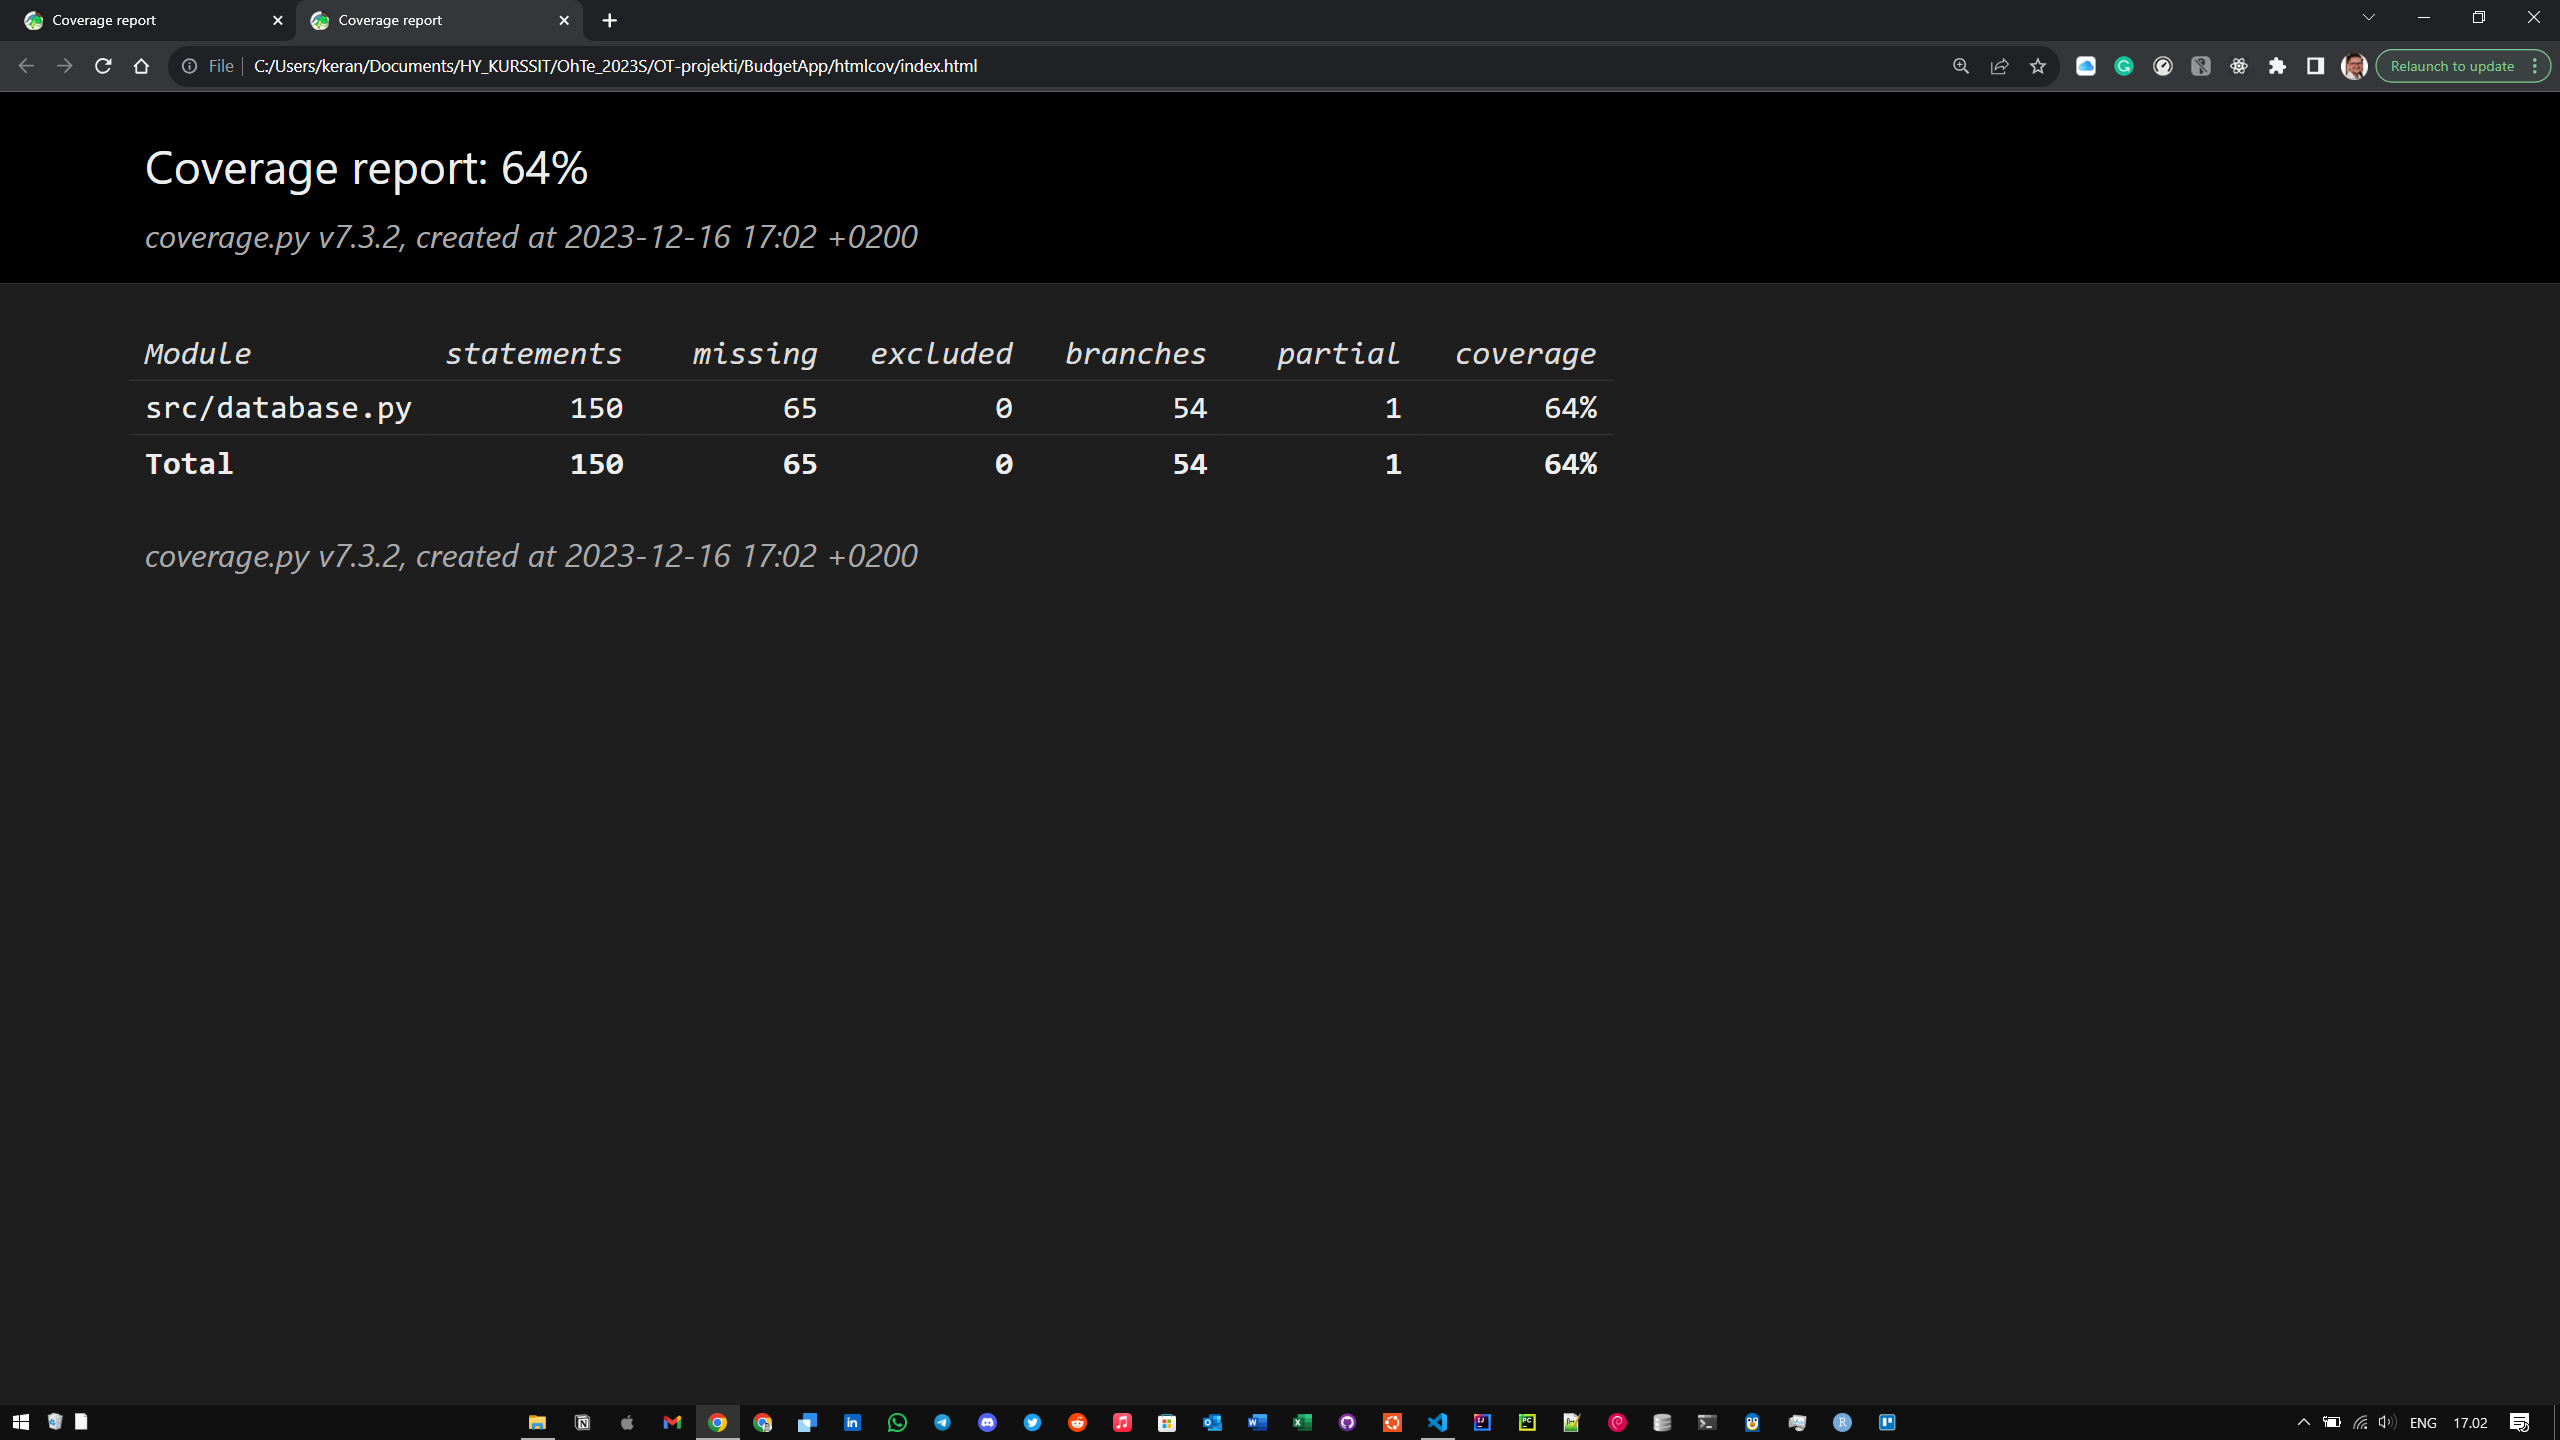
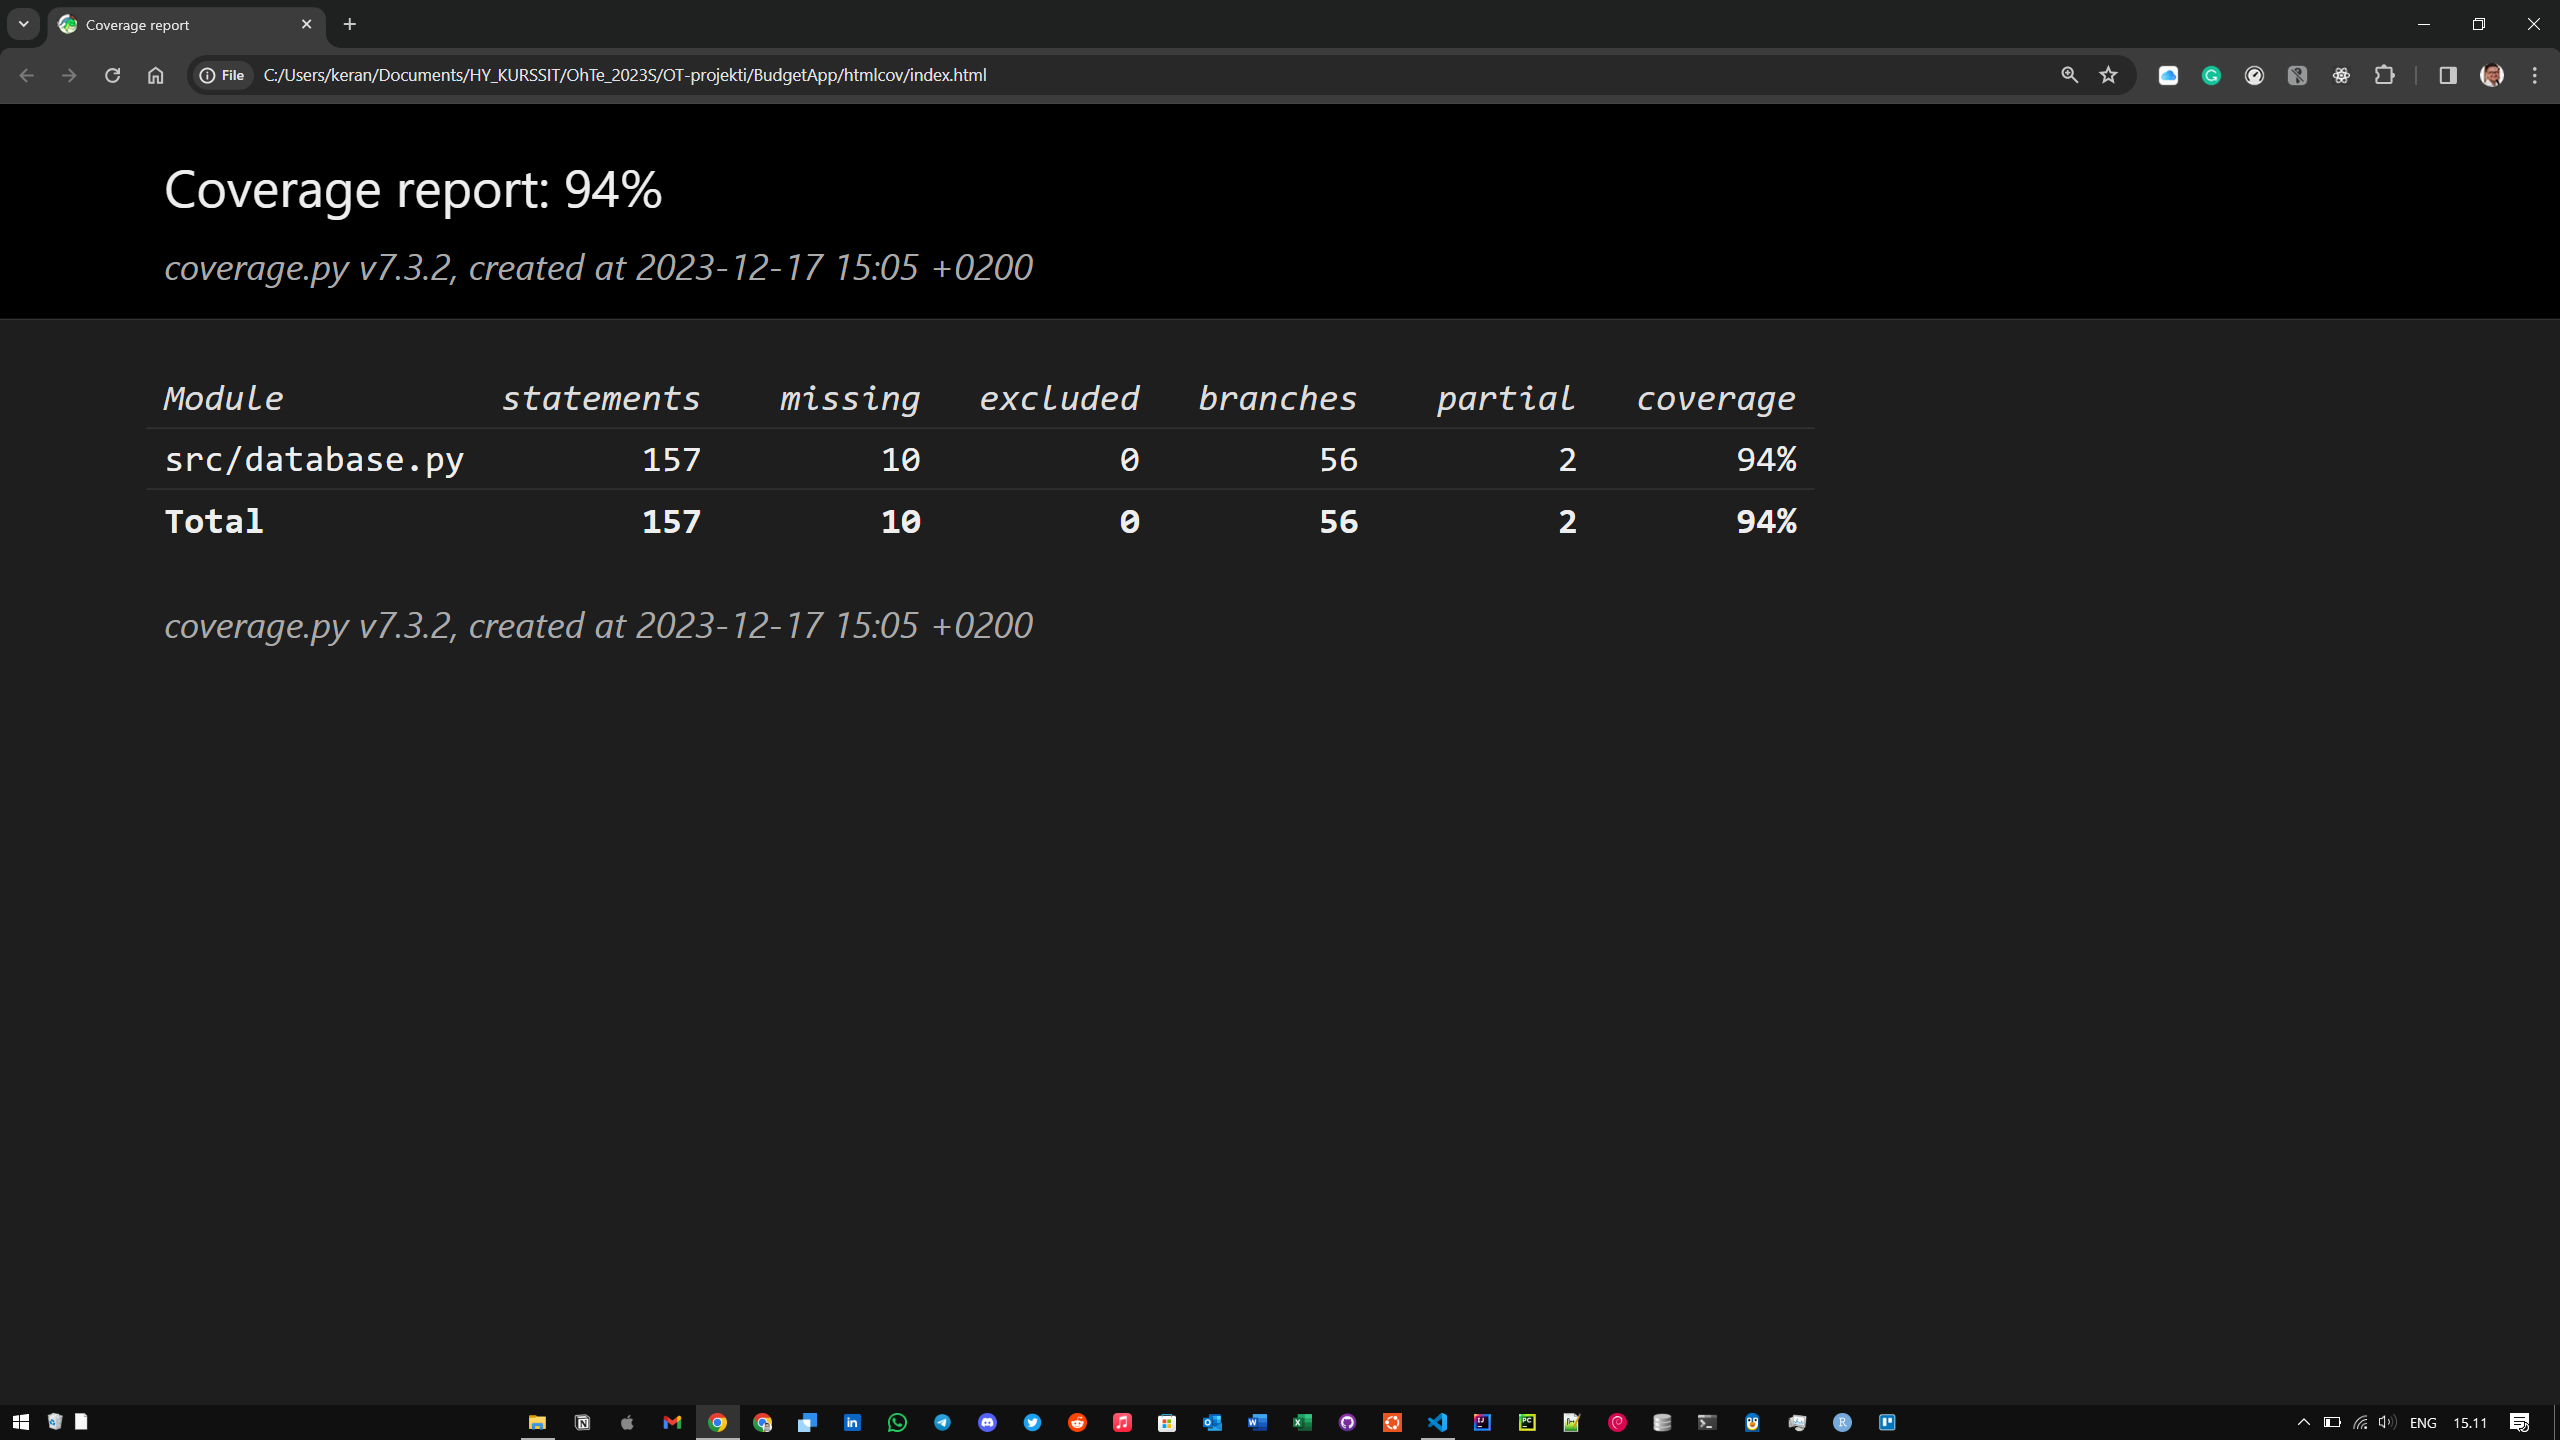
testikattavuus 94%:iin

diff --git a/BudgetApp/src/tests/budget_app_db_test.py b/BudgetApp/src/tests/budget_app_db_test.py
@@ -2,35 +2,59 @@ import unittest
 import sqlite3
 from database import DBController as db
 
-
 class TestDataBaseApp(unittest.TestCase):
     def setUp(self):
         db.db = sqlite3.connect(":memory:")
         db.init_database()
         db.create_tables()
-        user_id = db.create_user("LasseK", "Nakkipiilo")
+        db.create_user("LasseK", "Nakkipiilo")
         self.cursor = db.db.cursor()
 
     def tearDown(self):
         db.clear_expenses_by_user_id(1)
+        db.clear_incomes_by_user_id(1)
 
     def test_create_tables(self):
-        # assume created in setup
         expected_tables = ["Users", "Expenses", "Incomes"]
         tables = self.cursor.execute(
             'SELECT name FROM sqlite_master WHERE type="table";').fetchall()
         self.assertTrue(all(table in [t[0] for t in tables]
                         for table in expected_tables))
 
+    def test_login_user(self):
+        user_id = 1
+        username = "LasseK"
+        password = "Nakkipiilo"
+
+        logged_in_user_id = db.login_user(username, password)
+        self.assertEqual(logged_in_user_id, user_id)
+
+        wrong_password = "WrongPassword"
+        logged_in_user_id_wrong_password = db.login_user(
+            username, wrong_password)
+        self.assertIsNone(logged_in_user_id_wrong_password)
+
+        wrong_username = "WrongUsername"
+        logged_in_user_id_wrong_username = db.login_user(
+            wrong_username, password)
+        self.assertIsNone(logged_in_user_id_wrong_username)
+
+    def test_tables_exist(self):
+        expected_tables = ['Users', 'Expenses', 'Incomes']
+        self.assertTrue(db.tables_exist())
+
+        existing_tables = db.get_table_names()
+        self.assertTrue(
+            all(table in existing_tables for table in expected_tables))
+
     def test_create_user(self):
-        # assume created in setup
         nimi = self.cursor.execute(
             'SELECT username FROM Users WHERE Users.username="LasseK";').fetchone()
         self.assertIsNotNone(nimi)
 
     def test_add_expense(self):
         user_id = 1
-        db.add_expense(40, "dna lasku","Expenses", user_id)
+        db.add_expense(40, "dna lasku", "Expenses", user_id)
         inserted_datas = self.cursor.execute(
             'SELECT Expenses.amount, Expenses.description, Expenses.user_id FROM Expenses, Users WHERE Users.user_id=Expenses.user_id AND Users.user_id=?;', [user_id]).fetchall()
         inserted_amount, inserted_description, inserted_user_id = inserted_datas[0]
@@ -42,7 +66,7 @@ class TestDataBaseApp(unittest.TestCase):
         user_id = 1
         txkulut = ["dna", "sijoitus", "vuokra", "netflix", "spotify"]
         for kulu in txkulut:
-            db.add_expense(100, kulu,"Expenses" , user_id)
+            db.add_expense(100, kulu, "Expenses", user_id)
         kulut = db.get_expenses(user_id)
         self.assertTrue(all(kulu in [t[1] for t in kulut] for kulu in txkulut))
 
@@ -62,3 +86,119 @@ class TestDataBaseApp(unittest.TestCase):
         inserted_amount, inserted_source = inserted_datas[0]
         self.assertEqual(inserted_source, "kela")
         self.assertEqual(inserted_amount, "340")
+
+    def test_get_income_expense_diff(self):
+        user_id = 1
+        db.add_expense(50, "Groceries", "Expenses", user_id)
+        db.add_income(1000, "Salary", "Income", user_id)
+        expected_diff = 1000 - 50
+        actual_diff = db.get_income_expense_diff(user_id)
+        self.assertEqual(actual_diff, expected_diff)
+
+    def test_get_summ_of_all_incomes(self):
+        user_id = 1
+        db.add_income(1000, "Salary", "Income", user_id)
+        db.add_income(500, "Bonus", "Income", user_id)
+        expected_total_income = 1000 + 500
+        actual_total_income = db.get_summ_of_all_incomes(user_id)
+        self.assertEqual(actual_total_income, expected_total_income)
+
+    def test_get_all_incomes_expenses(self):
+        user_id = 1
+        db.add_income(1000, "Salary", "Income", user_id)
+        db.add_expense(50, "Groceries", "Expenses", user_id)
+        all_incomes_expenses = db.get_all_incomes_expenses(user_id)
+        print("all_incomes_expenses:", all_incomes_expenses)
+        self.assertIsInstance(all_incomes_expenses, list)
+        self.assertTrue(all(isinstance(entry, tuple) and len(
+            entry) == 4 for entry in all_incomes_expenses))
+        first_entry = all_incomes_expenses[0]
+        self.assertEqual(first_entry[0], 1000)
+        self.assertEqual(first_entry[1], "Salary")
+        self.assertEqual(first_entry[2], 50)
+        self.assertEqual(first_entry[3], "Groceries")
+
+    def test_delete_expense(self):
+        user_id = 1
+        expense_amount = 50
+        expense_description = "Groceries"
+        db.add_expense(expense_amount, expense_description,
+                       "Expenses", user_id)
+        expenses = db.get_expenses(user_id)
+        added_expense_id = expenses[0][3]
+        db.delete_expense(expense_amount, expense_description,
+                          "Expenses", added_expense_id, user_id)
+        expenses_after_deletion = db.get_expenses(user_id)
+        self.assertEqual(len(expenses_after_deletion), 0)
+
+    def test_delete_income(self):
+        user_id = 1
+        income_amount = 1000
+        income_source = "Salary"
+        db.add_income(income_amount, income_source, "Income", user_id)
+        incomes = db.get_incomes(user_id)
+        added_income_id = incomes[0][3]
+        db.delete_income(income_amount, income_source,
+                         "Income", added_income_id, user_id)
+        incomes_after_deletion = db.get_incomes(user_id)
+        self.assertEqual(len(incomes_after_deletion), 0)
+
+    def test_update_income(self):
+        user_id = 1
+        initial_amount = 1000
+        initial_source = "Salary"
+        db.add_income(initial_amount, initial_source, "Income", user_id)
+        incomes = db.get_incomes(user_id)
+        added_income_id = incomes[0][3]
+        new_amount = 1200
+        new_source = "Bonus"
+       
+    def test_update_income(self):
+        user_id = 1
+        initial_amount = 1000
+        initial_source = "Salary"
+        db.add_income(initial_amount, initial_source, "Income", user_id)
+        incomes = db.get_incomes(user_id)
+        added_income_id = incomes[0][3]
+        new_amount = 1200
+        new_source = "Bonus"
+        db.update_income(new_amount, new_source, "Income",
+                        added_income_id, user_id)
+        updated_incomes = db.get_incomes(user_id)
+        updated_income = updated_incomes[0]
+        self.assertEqual(updated_income[0], new_amount)
+        self.assertEqual(updated_income[1], new_source)
+        self.assertEqual(updated_income[2], "Income")
+        self.assertEqual(updated_income[3], added_income_id)
+
+
+    def test_update_expense(self):
+        user_id = 1
+        initial_amount = 50
+        initial_description = "Groceries"
+        db.add_expense(initial_amount, initial_description,
+                       "Expenses", user_id)
+        expenses = db.get_expenses(user_id)
+        added_expense_id = expenses[0][3]
+        new_amount = 70
+        new_description = "Electronics"
+        db.update_expense(new_amount, new_description,
+                          "Expenses", added_expense_id, user_id)
+        updated_expenses = db.get_expenses(user_id)
+        updated_expense = updated_expenses[0]
+        self.assertEqual(updated_expense[0], new_amount)
+        self.assertEqual(updated_expense[1], new_description)
+        self.assertEqual(updated_expense[2], "Expenses")
+        self.assertEqual(updated_expense[3], added_expense_id)
+
+    def test_clear_user_and_data_by_id(self):
+        user_id = db.create_user("Jekku", "PWD")
+        db.add_expense(50, "Groceries", "Expenses", user_id)
+        db.add_income(1000, "Salary", "Income", user_id)
+        db.clear_user_and_data_by_id(user_id)
+        deleted_user = db.login_user("Jekku", "PWD")
+        self.assertIsNone(deleted_user)
+        cleared_expenses = db.get_expenses(user_id)
+        cleared_incomes = db.get_incomes(user_id)
+        self.assertEqual(len(cleared_expenses), 0)
+        self.assertEqual(len(cleared_incomes), 0)

diff --git a/BudgetApp/src/database.py b/BudgetApp/src/database.py
@@ -1,6 +1,7 @@
 import os
 import sqlite3
 
+
 class DBController:
     db = None
 
@@ -28,15 +29,6 @@ class DBController:
         return True
 
     @staticmethod
-    def tables_exist():
-        query = (
-            "SELECT name FROM sqlite_master "
-            "WHERE type='table' AND name IN ('Users', 'Expenses', 'Incomes');"
-        )
-        result = DBController.execute_statement(query, [])
-        return bool(result.fetchone())
-
-    @staticmethod
     def create_tables():
         DBController.db.execute(
             "CREATE TABLE IF NOT EXISTS Users (user_id INTEGER PRIMARY KEY AUTOINCREMENT, "
@@ -51,6 +43,21 @@ class DBController:
             "amount INTEGER NOT NULL, source TEXT NOT NULL, "
             "category TEXT DEFAULT 'Income' NOT NULL, user_id INTEGER NOT NULL, "
             "FOREIGN KEY (user_id) REFERENCES Users (user_id) ON DELETE CASCADE);")
+
+    @staticmethod
+    def get_table_names():
+        query = "SELECT name FROM sqlite_master WHERE type='table';"
+        result = DBController.execute_statement(query, [])
+        return [table[0] for table in result.fetchall()]
+
+    @staticmethod
+    def tables_exist():
+        query = (
+            "SELECT name FROM sqlite_master "
+            "WHERE type='table' AND name IN ('Users', 'Expenses', 'Incomes');"
+        )
+        result = DBController.execute_statement(query, [])
+        return bool(result.fetchone())
 
     @staticmethod
     def create_user(uname, psswd):
@@ -130,7 +137,8 @@ class DBController:
             "WHERE Users.user_id = Expenses.user_id AND Users.user_id = ?;"
         )
         parameters = [user_id]
-        kulujen_yhteissumma = DBController.execute_statement(query, parameters).fetchone()
+        kulujen_yhteissumma = DBController.execute_statement(
+            query, parameters).fetchone()
         print("     HAETTU KÄYTTÄJÄN", user_id, "KULUJEN YHTEISSUMMA:")
         print("     ", kulujen_yhteissumma[0])
         if kulujen_yhteissumma is not None and kulujen_yhteissumma[0] is not None:
@@ -213,6 +221,8 @@ class DBController:
     def get_income_expense_diff(user_id):
         tul_yhtsym = DBController.get_summ_of_all_incomes(user_id)
         men_yhtsum = DBController.get_summ_of_all_expenses(user_id)
+        print("Tulot yhteensä:", tul_yhtsym)
+        print("Menot yhteensä:", men_yhtsum)
         print("     HAETTU KÄYTTÄJÄN", user_id, "TULOJEN JA MENOJEN EROTUS:")
         print("     ", tul_yhtsym - men_yhtsum)
         return tul_yhtsym - men_yhtsum
